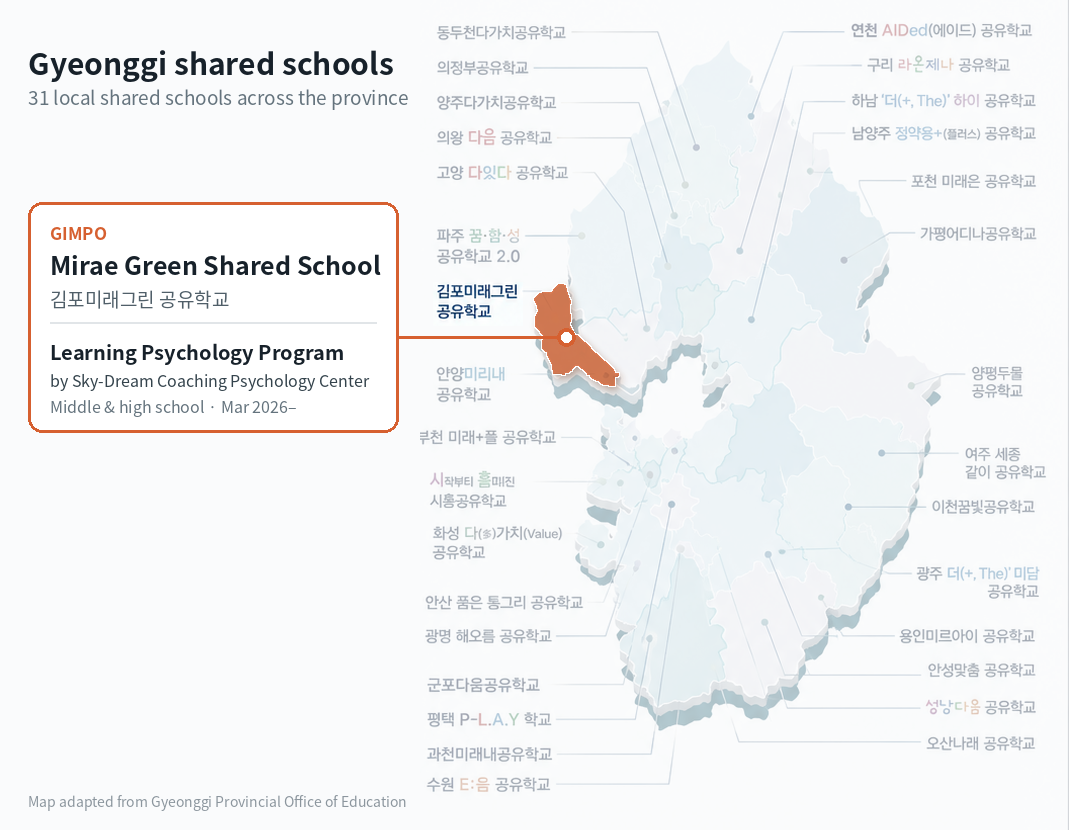
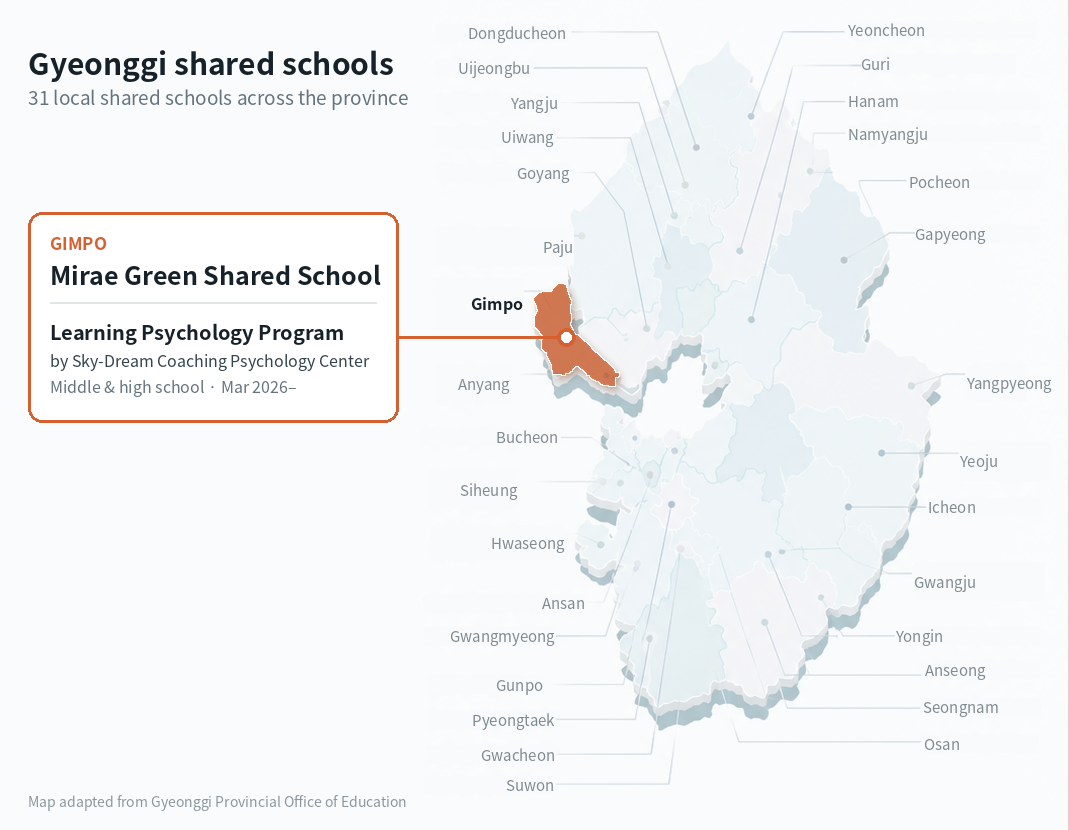
Shared-school map: English place labels
Claude-Session: https://claude.ai/code/session_01Nu9Q1qVTEVJ3xfdX1fM8bK

diff --git a/projects.html b/projects.html
@@ -10,7 +10,7 @@
 <a href="beyond.html">Beyond Academia</a>
 <a href="contact.html">Contact</a></nav></header><main><div class="page-head"><div class="eyebrow">Projects</div><h1>Applied Projects</h1><p class="lead">Selected school- and community-based projects connecting assessment, intervention, mentoring, family support, and program development.</p></div>
 <section class="overview" id="overview" aria-label="All projects" data-back-label="All projects">
-<article class="overview-item" data-card-for="shared-school"><div class="overview-kicker">Public shared-school program · Middle and high school · 2026</div><h2><a href="#shared-school">Shared School: Urban to Rural Students</a></h2><div class="overview-body"><a class="overview-media" href="#shared-school" tabindex="-1" aria-hidden="true"><img src="shared-school-map-thumb-2026.png" alt="" loading="lazy" style="object-position:center center"></a><div class="overview-summary"><p>One learning psychology program for teenagers from the city center to a rural farm town. I developed and taught its academic coaching sessions, built around a web game with an optional AI coach.</p><a class="overview-more" href="#shared-school">View detail →</a></div></div></article>
+<article class="overview-item" data-card-for="shared-school"><div class="overview-kicker">Public shared-school program · Middle and high school · 2026</div><h2><a href="#shared-school">Shared School: Urban to Rural Students</a></h2><div class="overview-body"><a class="overview-media" href="#shared-school" tabindex="-1" aria-hidden="true"><img src="shared-school-map-thumb-2026.png?v=en" alt="" loading="lazy" style="object-position:center center"></a><div class="overview-summary"><p>One learning psychology program for teenagers from the city center to a rural farm town. I developed and taught its academic coaching sessions, built around a web game with an optional AI coach.</p><a class="overview-more" href="#shared-school">View detail →</a></div></div></article>
 <article class="overview-item" data-card-for="poom-family"><div class="overview-kicker">Community practice · Children and adolescents · 2025</div><h2><a href="#poom-family">Poom Family: Support Around Young People</a></h2><div class="overview-body"><a class="overview-media overview-media--data" href="#poom-family" tabindex="-1" aria-hidden="true"><img src="poom-charts/pathway-thumbnail.svg" alt="" style="width:100%;height:auto"></a><div class="overview-summary"><p>Individual home-based youth coaching connected to parent and family support and community resources. A coordinated pathway from family assessment and service planning to case review and closure.</p><a class="overview-more" href="#poom-family">See the service pathway →</a></div></div></article>
 <article class="overview-item" data-card-for="hwanggok"><div class="overview-kicker">In the classroom · Hwanggok Elementary · 2025</div><h2><a href="#hwanggok">The Next Level of Learning</a></h2><div class="overview-body"><a class="overview-media" href="#hwanggok" tabindex="-1" aria-hidden="true"><img src="hwanggok-classroom-2025.jpg" alt="" loading="lazy" style="object-position:center 48%"></a><div class="overview-summary"><p>A four-session, game-based academic motivation program I designed and led for a third-grade class—using DISC-inspired characters, “Black Mamba” obstacle cards, and strategy cards—then extended into an assessment-informed psychological consultation for the school.</p><a class="overview-more" href="#hwanggok">View detail →</a></div></div></article>
 <article class="overview-item" data-card-for="green-friends"><div class="overview-kicker">Green Friends School · Group program · 2025</div><h2><a href="#green-friends">The Test They Finished</a></h2><div class="overview-body"><a class="overview-media" href="#green-friends" tabindex="-1" aria-hidden="true"><img src="green-friends-coaching-2025.jpg" alt="" loading="lazy" style="object-position:center 40%"></a><div class="overview-summary"><p>A five-session group for seven young teenagers with borderline intellectual functioning, requested because the students struggled to focus, even through their own assessments. Each session opened with play. By the post-program assessments, students who could not stay with a test were finishing it.</p><a class="overview-more" href="#green-friends">View detail →</a></div></div></article>
@@ -39,7 +39,7 @@
     <p>Gyeonggi Province runs 31 local shared schools. Each pools what schools and the community already have, so any student can join programs their own school cannot offer: after school, on weekends, or during breaks.</p>
   </div>
 
-  <figure class="gf-photo ssd-map"><img src="gyeonggi-shared-school-map-2026.png" alt="Map of Gyeonggi Province’s 31 shared schools with the Gimpo Mirae Green Shared School highlighted, where Sky-Dream Coaching Psychology Center offers a Learning Psychology Program" width="1069" height="830" loading="lazy" style="box-shadow:none"><figcaption>Our program sits in Gimpo, a city that runs from dense new towns to farmland. Map adapted from the Gyeonggi Provincial Office of Education.</figcaption></figure>
+  <figure class="gf-photo ssd-map"><img src="gyeonggi-shared-school-map-2026.png?v=en" alt="Map of Gyeonggi Province’s 31 shared schools with the Gimpo Mirae Green Shared School highlighted, where Sky-Dream Coaching Psychology Center offers a Learning Psychology Program" width="1069" height="830" loading="lazy" style="box-shadow:none"><figcaption>Our program sits in Gimpo, a city that runs from dense new towns to farmland. Map adapted from the Gyeonggi Provincial Office of Education.</figcaption></figure>
 
   <section class="ssd-platform" aria-label="How a shared school works">
     <div class="ssd-platform-head"><strong>How a shared school works</strong><span>A local education collaboration platform</span></div>
